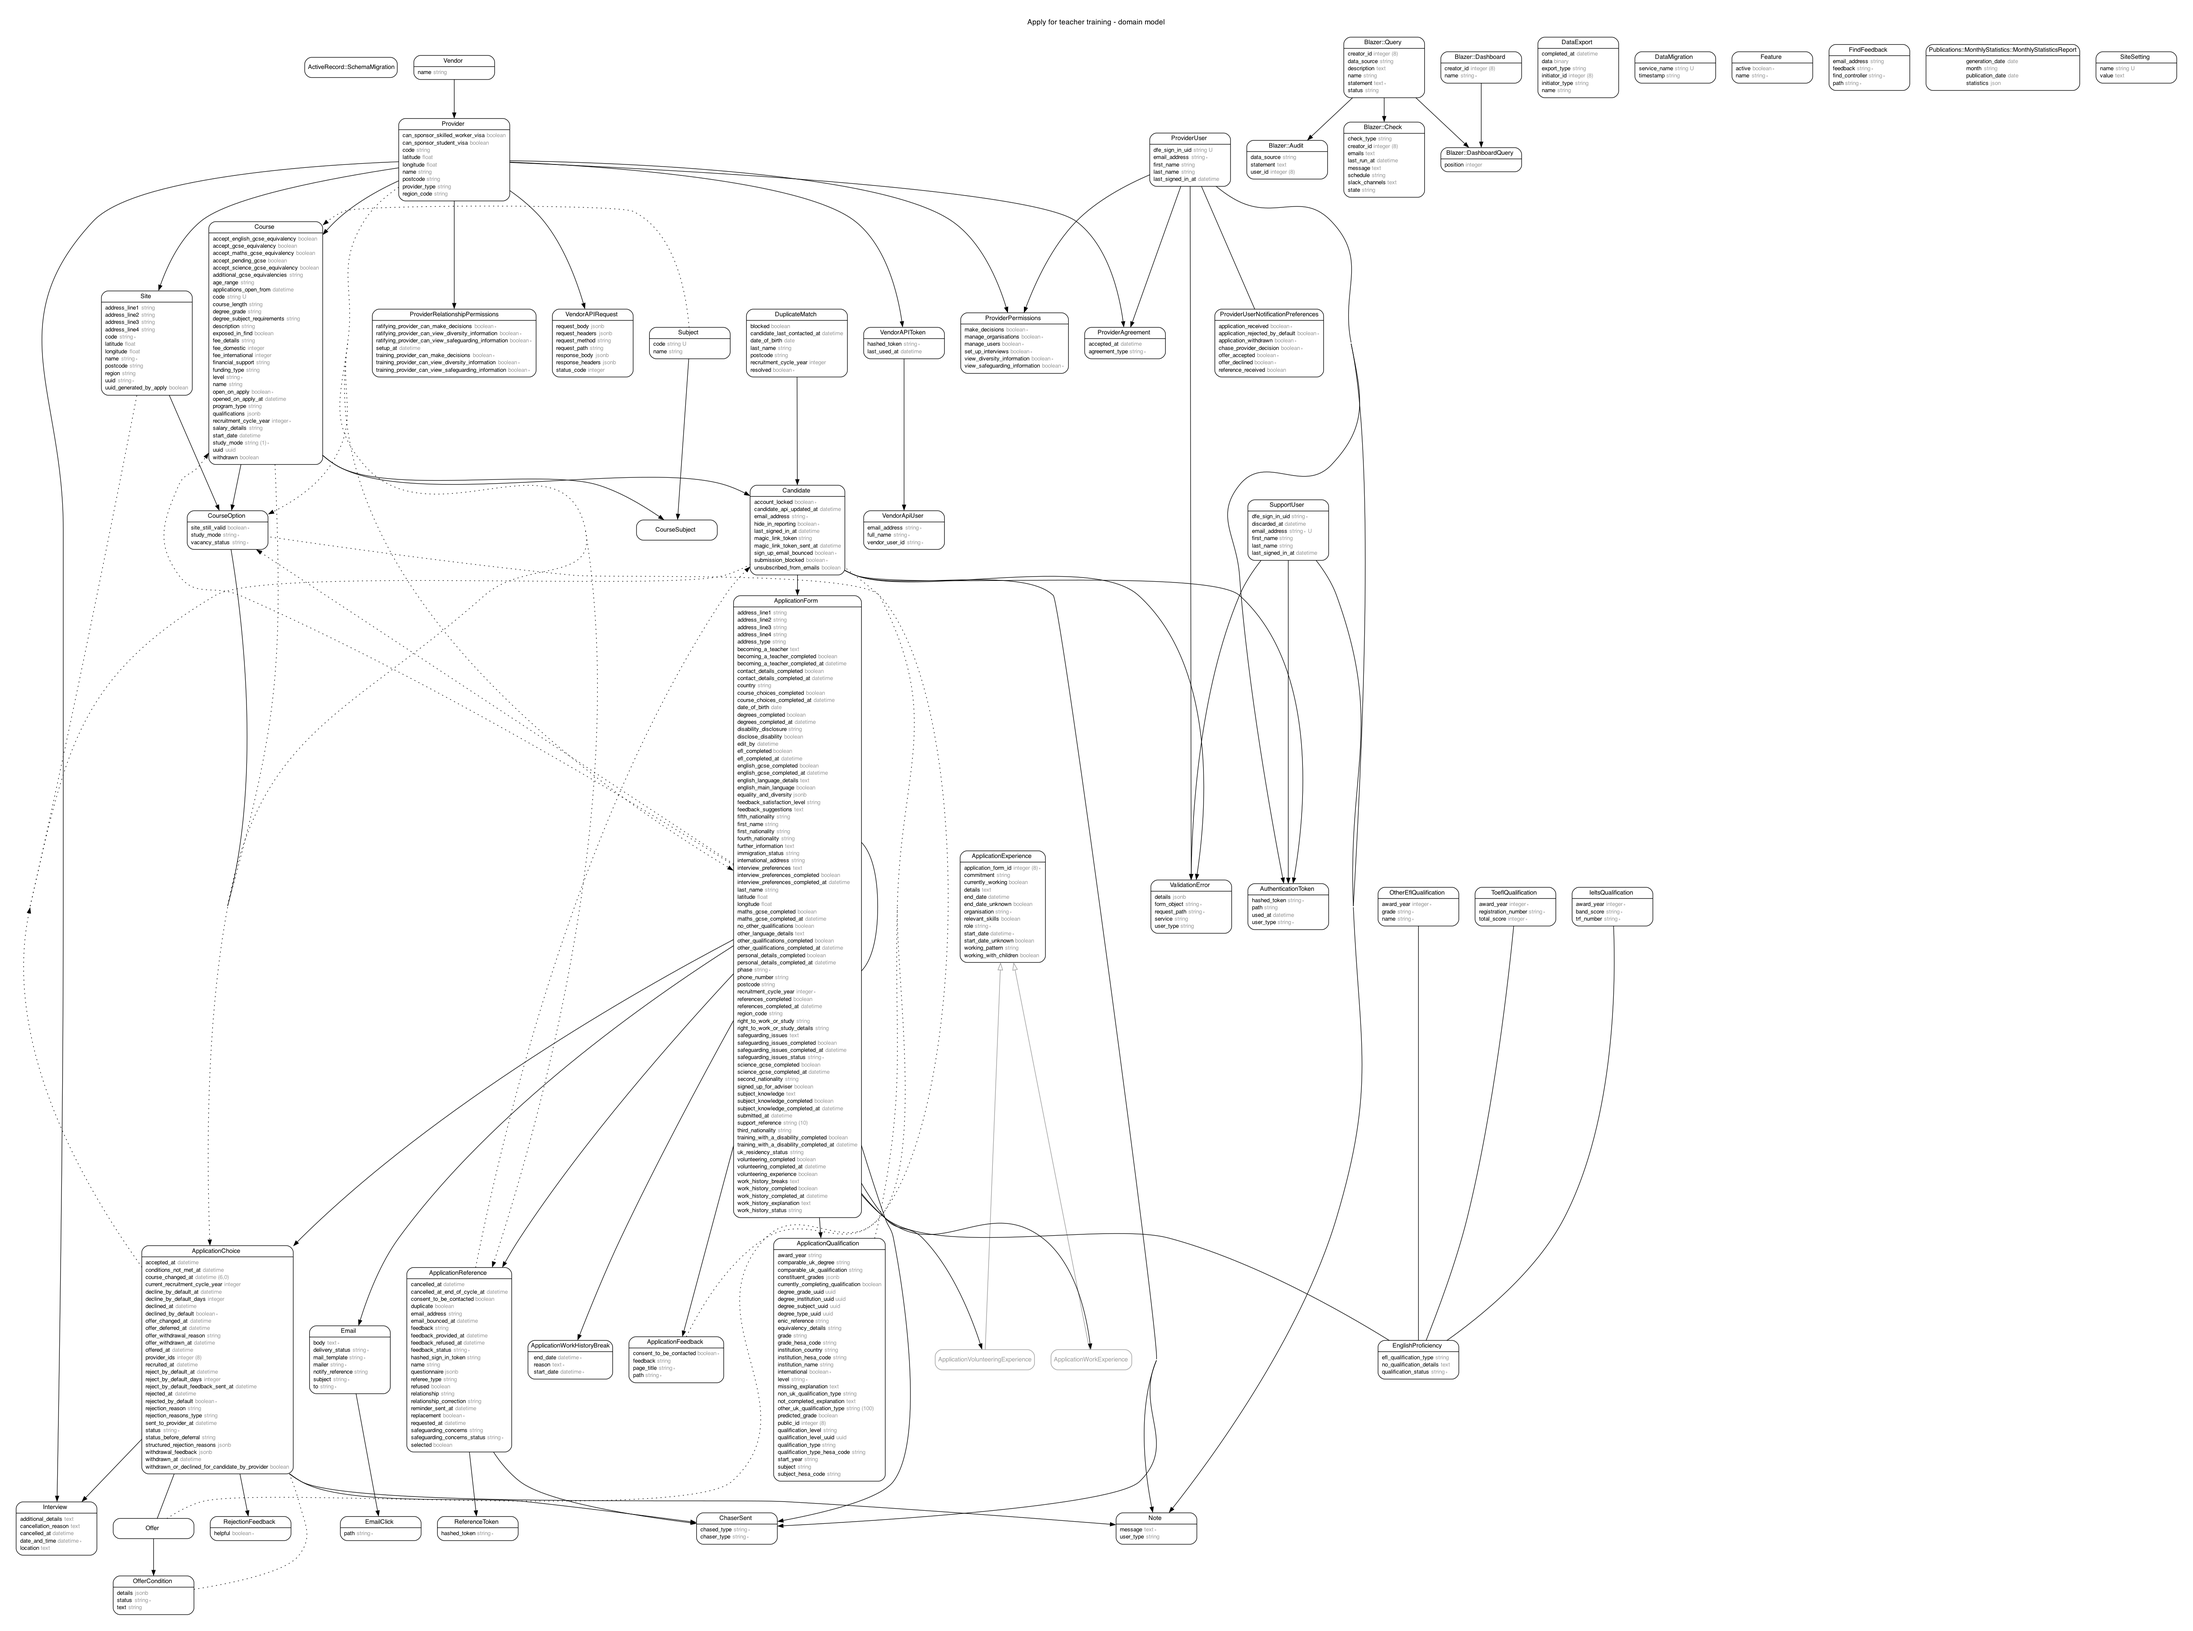
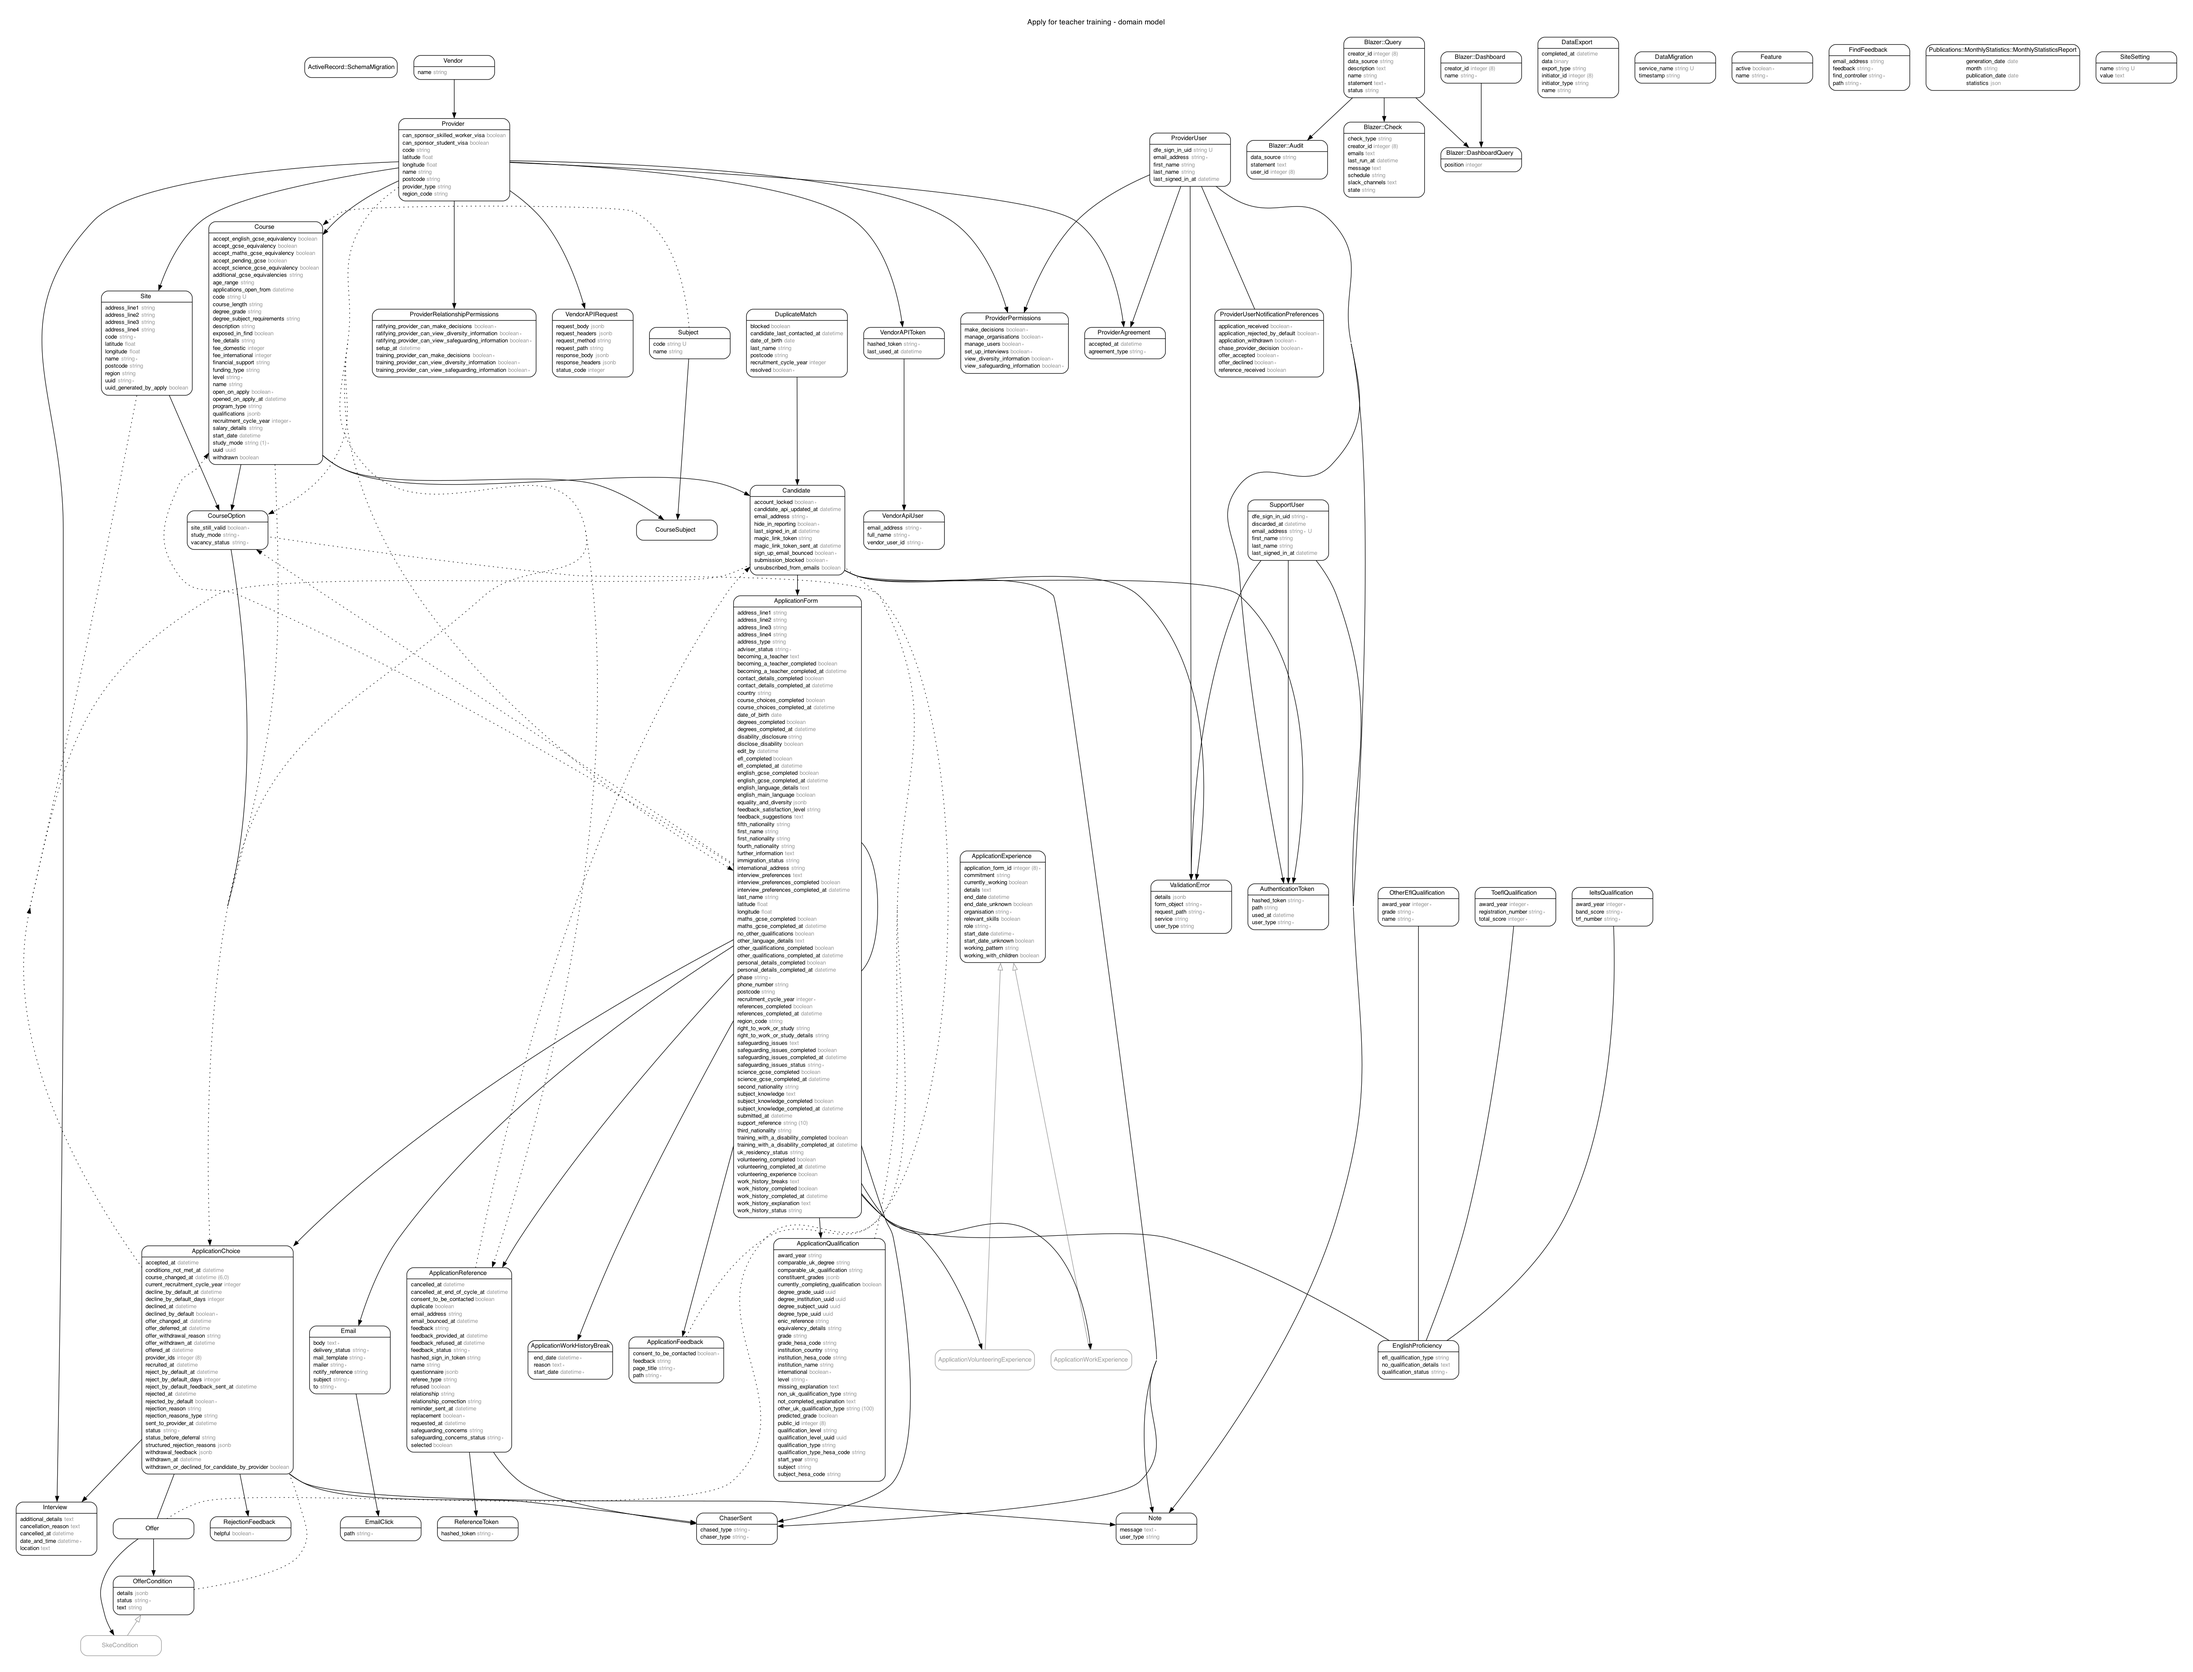
Remove singed_up_for_adviser field from ApplicationForm
We have replaced this field with the `adviser_status` field.

diff --git a/db/schema.rb b/db/schema.rb
@@ -10,7 +10,7 @@
 #
 # It's strongly recommended that you check this file into your version control system.
 
-ActiveRecord::Schema[7.0].define(version: 2023_03_09_104350) do
+ActiveRecord::Schema[7.0].define(version: 2023_03_13_100534) do
   create_sequence "qualifications_public_id_seq", start: 120000
 
   # These are extensions that must be enabled in order to support this database
@@ -177,7 +177,6 @@ ActiveRecord::Schema[7.0].define(version: 2023_03_09_104350) do
     t.datetime "training_with_a_disability_completed_at", precision: nil
     t.datetime "volunteering_completed_at", precision: nil
     t.datetime "work_history_completed_at", precision: nil
-    t.boolean "signed_up_for_adviser", default: false
     t.string "adviser_status", default: "unassigned", null: false
     t.index ["candidate_id"], name: "index_application_forms_on_candidate_id"
     t.index ["submitted_at"], name: "index_application_forms_on_submitted_at"

diff --git a/db/migrate/20230313100534_remove_signed_up_for_adviser_from_application_forms.rb b/db/migrate/20230313100534_remove_signed_up_for_adviser_from_application_forms.rb
@@ -1,0 +1,5 @@
+class RemoveSignedUpForAdviserFromApplicationForms < ActiveRecord::Migration[7.0]
+  def change
+    safety_assured { remove_column :application_forms, :signed_up_for_adviser, :boolean }
+  end
+end
